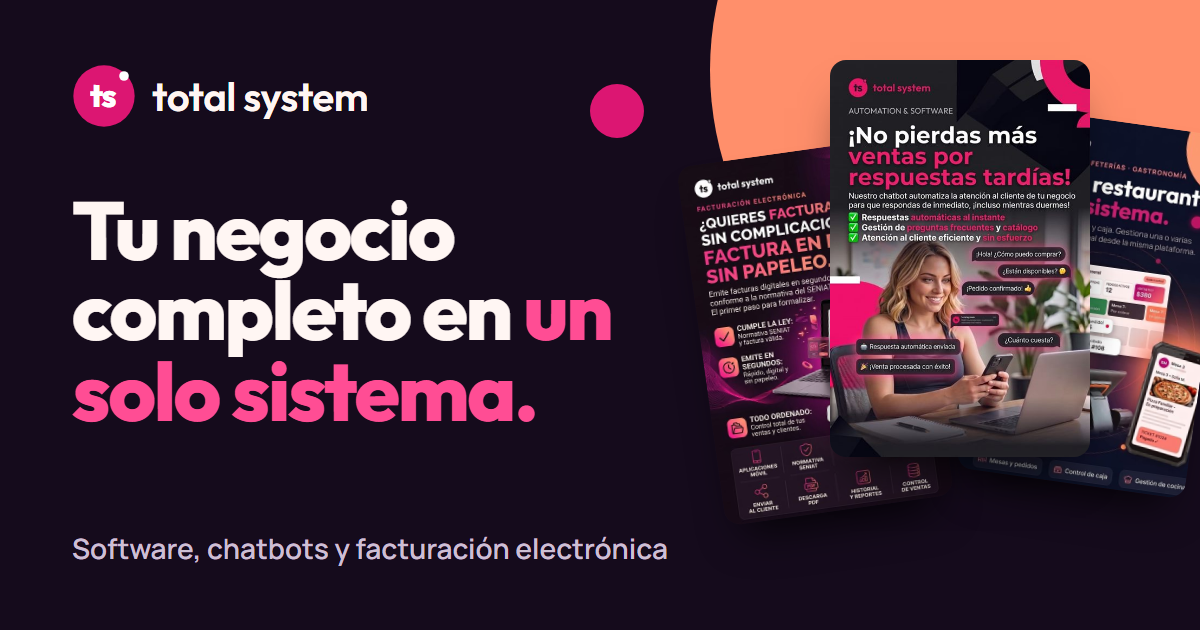
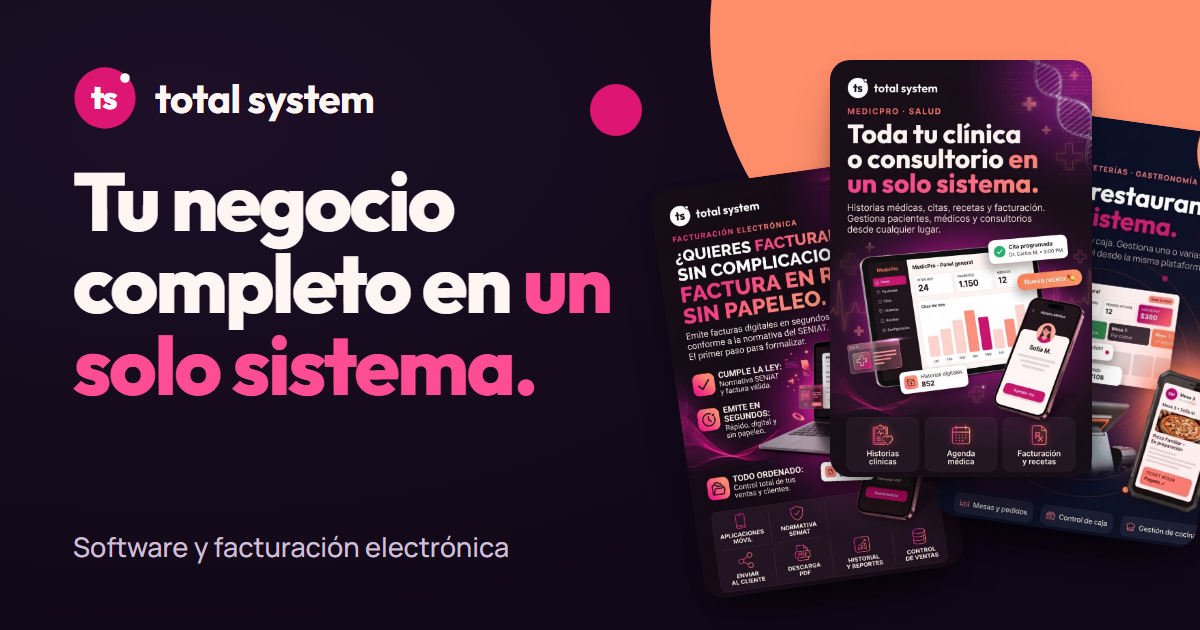
feat(website): retirar el servicio de chatbot de WhatsApp (descontinuado)
- Elimina los flyers del chatbot y la sección del inicio
- Quita el enlace del pie de página, la entrada del catálogo y la pregunta frecuente
- Reemplaza el flyer central del collage por el de MedicPro
- Rehace la imagen para compartir en redes sin el chatbot
- Limpia menciones en meta, JSON-LD, README y PRODUCT.md

diff --git a/index.html b/index.html
@@ -3,8 +3,8 @@
 <head>
   <meta charset="utf-8" />
   <meta name="viewport" content="width=device-width, initial-scale=1" />
-  <title>Total System | Software, chatbots y facturación electrónica</title>
-  <meta name="description" content="Más de 30 sistemas para negocios: tienda POS, gimnasio, clínica, hospedaje, facturación electrónica SENIAT, chatbots de WhatsApp y software a medida." />
+  <title>Total System | Software y facturación electrónica</title>
+  <meta name="description" content="Más de 30 sistemas para negocios: tienda POS, gimnasio, clínica, hospedaje, facturación electrónica SENIAT y software a medida." />
   <link rel="canonical" href="https://www.jotaelebundle.com/" />
   <meta name="robots" content="index, follow, max-image-preview:large" />
   <meta name="theme-color" content="#150b1c" />
@@ -13,15 +13,15 @@
   <meta property="og:site_name" content="Total System" />
   <meta property="og:locale" content="es_VE" />
   <meta property="og:url" content="https://www.jotaelebundle.com/" />
-  <meta property="og:title" content="Total System | Software, chatbots y facturación electrónica" />
-  <meta property="og:description" content="Más de 30 sistemas para negocios: tienda POS, gimnasio, clínica, hospedaje, facturación electrónica SENIAT, chatbots de WhatsApp y software a medida." />
+  <meta property="og:title" content="Total System | Software y facturación electrónica" />
+  <meta property="og:description" content="Más de 30 sistemas para negocios: tienda POS, gimnasio, clínica, hospedaje, facturación electrónica SENIAT y software a medida." />
   <meta property="og:image" content="https://www.jotaelebundle.com/assets/og-total-system.png" />
   <meta property="og:image:width" content="1200" />
   <meta property="og:image:height" content="630" />
-  <meta property="og:image:alt" content="Total System: software, chatbots y facturación electrónica para tu negocio" />
+  <meta property="og:image:alt" content="Total System: software y facturación electrónica para tu negocio" />
   <meta name="twitter:card" content="summary_large_image" />
-  <meta name="twitter:title" content="Total System | Software, chatbots y facturación electrónica" />
-  <meta name="twitter:description" content="Sistemas por industria, facturación electrónica SENIAT, chatbots de WhatsApp y software a medida." />
+  <meta name="twitter:title" content="Total System | Software y facturación electrónica" />
+  <meta name="twitter:description" content="Sistemas por industria, facturación electrónica SENIAT y software a medida." />
   <meta name="twitter:image" content="https://www.jotaelebundle.com/assets/og-total-system.png" />
 
   <link rel="icon" type="image/png" sizes="48x48" href="assets/favicon-48.png" />
@@ -29,8 +29,8 @@
 
   <link rel="preload" href="fonts/outfit-latin.woff2" as="font" type="font/woff2" crossorigin />
   <link rel="preload" href="fonts/manrope-latin.woff2" as="font" type="font/woff2" crossorigin />
-  <link rel="preload" as="image" href="assets/servicios/chatbot-whatsapp-automatizado-480.jpg"
-        imagesrcset="assets/servicios/chatbot-whatsapp-automatizado-480.jpg 480w, assets/servicios/chatbot-whatsapp-automatizado.jpg 768w"
+  <link rel="preload" as="image" href="assets/servicios/sistema-clinicas-medicpro-480.jpg"
+        imagesrcset="assets/servicios/sistema-clinicas-medicpro-480.jpg 480w, assets/servicios/sistema-clinicas-medicpro.jpg 768w"
         imagesizes="(max-width: 960px) 240px, 280px" fetchpriority="high" />
   <link rel="stylesheet" href="css/total.css" />
 
@@ -44,7 +44,7 @@
         "name": "Total System",
         "url": "https://www.jotaelebundle.com/",
         "logo": "https://www.jotaelebundle.com/assets/logo-total-system-512.png",
-        "description": "Desarrollo de software y automatización para negocios: chatbots de WhatsApp, facturación electrónica, más de 30 sistemas de gestión por industria, y software y apps a medida.",
+        "description": "Desarrollo de software y automatización para negocios: facturación electrónica, más de 30 sistemas de gestión por industria, y software y apps a medida.",
         "contactPoint": {
           "@type": "ContactPoint",
           "contactType": "sales",
@@ -55,7 +55,6 @@
           "@type": "OfferCatalog",
           "name": "Servicios de Total System",
           "itemListElement": [
-            { "@type": "Offer", "itemOffered": { "@type": "Service", "name": "Chatbot de WhatsApp para atención al cliente", "serviceType": "Automatización de atención al cliente", "url": "https://www.jotaelebundle.com/#chatbot-whatsapp" } },
             { "@type": "Offer", "itemOffered": { "@type": "Service", "name": "Facturación electrónica conforme a la normativa del SENIAT", "serviceType": "Facturación electrónica", "url": "https://www.jotaelebundle.com/#facturacion-electronica" } },
             { "@type": "Offer", "itemOffered": { "@type": "Service", "name": "Sistema de control de asistencia y fichaje", "serviceType": "Control de asistencia", "url": "https://www.jotaelebundle.com/#control-asistencia" } },
             { "@type": "Offer", "itemOffered": { "@type": "Service", "name": "MedicPro: sistema para clínicas y consultorios", "serviceType": "Software de gestión médica", "url": "https://www.jotaelebundle.com/#sistema-clinicas" } },
@@ -79,11 +78,10 @@
       {
         "@type": "FAQPage",
         "mainEntity": [
-          { "@type": "Question", "name": "¿Qué tipo de software desarrolla Total System?", "acceptedAnswer": { "@type": "Answer", "text": "Chatbots para WhatsApp, facturación electrónica, más de 30 sistemas de gestión listos (tiendas, gimnasios, clínicas, hospedaje, educación, transporte y más), y software o apps a medida para lo que tu negocio necesite." } },
+          { "@type": "Question", "name": "¿Qué tipo de software desarrolla Total System?", "acceptedAnswer": { "@type": "Answer", "text": "Facturación electrónica, más de 30 sistemas de gestión listos (tiendas, gimnasios, clínicas, hospedaje, educación, transporte y más), y software o apps a medida para lo que tu negocio necesite." } },
           { "@type": "Question", "name": "¿La facturación electrónica cumple con la normativa del SENIAT?", "acceptedAnswer": { "@type": "Answer", "text": "Nuestro sistema emite facturas digitales conforme a la normativa del SENIAT, para que formalices tu negocio sin papeleo. Escríbenos y te mostramos cómo funciona." } },
           { "@type": "Question", "name": "¿Puedo gestionar mi negocio desde el celular?", "acceptedAnswer": { "@type": "Answer", "text": "Sí. Nuestros sistemas están pensados para gestionarse desde cualquier lugar, con aplicación móvil y panel para la computadora." } },
           { "@type": "Question", "name": "¿Sirve para varias sedes o sucursales?", "acceptedAnswer": { "@type": "Answer", "text": "Sí. Los sistemas para academias y restaurantes permiten gestionar una o varias sedes o sucursales desde la misma plataforma, en tiempo real." } },
-          { "@type": "Question", "name": "¿El chatbot responde por mí cuando no estoy?", "acceptedAnswer": { "@type": "Answer", "text": "Sí. Responde al instante, incluso fuera de horario, las preguntas frecuentes y las consultas sobre el catálogo de tu negocio." } },
           { "@type": "Question", "name": "¿Pueden hacer un sistema distinto a los que veo aquí?", "acceptedAnswer": { "@type": "Answer", "text": "Sí. Además del catálogo, hacemos cualquier sistema o app a medida: tú pones las reglas y nosotros ponemos el código." } },
           { "@type": "Question", "name": "¿Cómo pido una demostración?", "acceptedAnswer": { "@type": "Answer", "text": "Escríbenos a jorgecastilloowner@jotaelebundle.com y cuéntanos qué tipo de negocio tienes." } },
           { "@type": "Question", "name": "¿Cuánto cuesta?", "acceptedAnswer": { "@type": "Answer", "text": "Depende del sistema y de lo que necesite tu negocio. Escríbenos y te contamos las opciones." } }
@@ -145,7 +143,7 @@
         <div>
           <h1 id="hero-title">Tu negocio completo en <span class="hl">un solo sistema.</span></h1>
           <p class="hero-lead">
-            Creamos más de 30 sistemas de gestión, facturación electrónica y chatbots de WhatsApp para tiendas, gimnasios, clínicas, hospedaje, restaurantes y financieras. Y cualquier sistema o app que imagines: tú pones las reglas y nosotros ponemos el código.
+            Creamos más de 30 sistemas de gestión y facturación electrónica para tiendas, gimnasios, clínicas, hospedaje, restaurantes y financieras. Y cualquier sistema o app que imagines: tú pones las reglas y nosotros ponemos el código.
           </p>
           <div class="hero-actions">
             <a class="btn btn-primary btn-lg" href="mailto:jorgecastilloowner@jotaelebundle.com?subject=Quiero%20una%20demo%20de%20Total%20System&amp;body=Hola%2C%20quiero%20una%20demo.%20Mi%20negocio%20es%3A%20">
@@ -173,9 +171,9 @@
                  sizes="(max-width: 960px) 200px, 240px" width="768" height="1208" alt="" decoding="async" />
           </figure>
           <figure class="fan-poster b">
-            <img src="assets/servicios/chatbot-whatsapp-automatizado-480.jpg"
-                 srcset="assets/servicios/chatbot-whatsapp-automatizado-480.jpg 480w, assets/servicios/chatbot-whatsapp-automatizado.jpg 768w"
-                 sizes="(max-width: 960px) 240px, 280px" width="768" height="1172" alt="" fetchpriority="high" decoding="async" />
+            <img src="assets/servicios/sistema-clinicas-medicpro-480.jpg"
+                 srcset="assets/servicios/sistema-clinicas-medicpro-480.jpg 480w, assets/servicios/sistema-clinicas-medicpro.jpg 768w"
+                 sizes="(max-width: 960px) 240px, 280px" width="768" height="1222" alt="" fetchpriority="high" decoding="async" />
           </figure>
           <figure class="fan-poster c">
             <img src="assets/servicios/sistema-restaurantes-480.jpg"
@@ -188,7 +186,7 @@
           </div>
           <div class="chip two">
             <svg width="26" height="26" aria-hidden="true"><use href="#i-check" /></svg>
-            <div><strong>¡Pedido confirmado!</strong><span>Respuesta automática enviada</span></div>
+            <div><strong>¡Pedido confirmado!</strong><span>Enviado a cocina</span></div>
           </div>
           <div class="chip three">
             <svg width="26" height="26" aria-hidden="true"><use href="#i-check" /></svg>
@@ -204,39 +202,10 @@
         <div class="section-head">
           <h2 id="servicios-title">Un sistema para cada <span class="hl">tipo de negocio.</span></h2>
           <p>
-            Elige lo que necesitas: atención automática por WhatsApp, facturación en regla, control de asistencia de tu equipo
+            Elige lo que necesitas: facturación en regla, control de asistencia de tu equipo
             o un sistema pensado para tu industria. Todo se gestiona desde el celular o la computadora.
           </p>
         </div>
-
-        <article class="svc" id="chatbot-whatsapp">
-          <div class="svc-media">
-            <img src="assets/servicios/chatbot-whatsapp-automatizado-480.jpg"
-                 srcset="assets/servicios/chatbot-whatsapp-automatizado-480.jpg 480w, assets/servicios/chatbot-whatsapp-automatizado.jpg 768w"
-                 sizes="(max-width: 960px) 70vw, 340px" width="768" height="1172" loading="lazy" decoding="async"
-                 alt="Flyer de Total System: chatbot de WhatsApp que automatiza la atención al cliente con respuestas automáticas, preguntas frecuentes y catálogo" />
-          </div>
-          <div class="svc-body">
-            <h3>Chatbot de WhatsApp para no perder ventas</h3>
-            <p class="svc-hook">Responde de inmediato, incluso mientras duermes.</p>
-            <p>
-              Nuestro chatbot automatiza la atención al cliente de tu negocio: contesta las preguntas más comunes,
-              muestra tu catálogo y confirma pedidos, aun fuera de horario.
-            </p>
-            <ul class="ticks">
-              <li><svg width="28" height="28" aria-hidden="true"><use href="#i-check" /></svg><span>Respuestas automáticas al instante</span></li>
-              <li><svg width="28" height="28" aria-hidden="true"><use href="#i-check" /></svg><span>Gestión de preguntas frecuentes y catálogo</span></li>
-              <li><svg width="28" height="28" aria-hidden="true"><use href="#i-check" /></svg><span>Atención al cliente eficiente y sin esfuerzo</span></li>
-            </ul>
-            <div class="svc-actions">
-              <a class="btn btn-primary" href="mailto:jorgecastilloowner@jotaelebundle.com?subject=Demo%20del%20chatbot%20para%20WhatsApp&amp;body=Hola%2C%20quiero%20informaci%C3%B3n%20sobre%20el%20chatbot%20para%20WhatsApp.%20Mi%20negocio%20es%3A%20">
-                <svg class="mail-icon" aria-hidden="true" focusable="false"><use href="#i-mail" /></svg>
-                Pedir demo del chatbot
-              </a>
-              <a class="text-link" href="chattflow.html">¿Prefieres montarlo tú? Conoce ChattFlow</a>
-            </div>
-          </div>
-        </article>
 
         <article class="svc" id="facturacion-electronica">
           <div class="svc-media">
@@ -500,7 +469,7 @@
         <div class="faq">
           <details>
             <summary>¿Qué tipo de software desarrolla Total System?</summary>
-            <p>Chatbots para WhatsApp, facturación electrónica, más de 30 sistemas de gestión listos (tiendas, gimnasios, clínicas, hospedaje, educación, transporte y más), y software o apps a medida para lo que tu negocio necesite.</p>
+            <p>Facturación electrónica, más de 30 sistemas de gestión listos (tiendas, gimnasios, clínicas, hospedaje, educación, transporte y más), y software o apps a medida para lo que tu negocio necesite.</p>
           </details>
           <details>
             <summary>¿La facturación electrónica cumple con la normativa del SENIAT?</summary>
@@ -513,10 +482,6 @@
           <details>
             <summary>¿Sirve para varias sedes o sucursales?</summary>
             <p>Sí. Los sistemas para academias y restaurantes permiten gestionar una o varias sedes o sucursales desde la misma plataforma, en tiempo real.</p>
-          </details>
-          <details>
-            <summary>¿El chatbot responde por mí cuando no estoy?</summary>
-            <p>Sí. Responde al instante, incluso fuera de horario, las preguntas frecuentes y las consultas sobre el catálogo de tu negocio.</p>
           </details>
           <details>
             <summary>¿Pueden hacer un sistema distinto a los que veo aquí?</summary>
@@ -558,12 +523,11 @@
             <svg viewBox="0 0 48 48" aria-hidden="true" focusable="false"><use href="#logo-ts" /></svg>
             <span>total system</span>
           </a>
-          <p>Software y automatización para negocios: chatbots, facturación electrónica y sistemas a tu medida.</p>
+          <p>Software y automatización para negocios: facturación electrónica y sistemas a tu medida.</p>
         </div>
         <nav aria-label="Servicios">
           <h2>Servicios</h2>
           <ul>
-            <li><a href="#chatbot-whatsapp">Chatbot de WhatsApp</a></li>
             <li><a href="#facturacion-electronica">Facturación electrónica</a></li>
             <li><a href="#control-asistencia">Control de asistencia</a></li>
             <li><a href="#sistema-clinicas">Clínicas (MedicPro)</a></li>

diff --git a/sistemas.html b/sistemas.html
@@ -49,7 +49,7 @@
       "mainEntity": {
         "@type": "ItemList",
         "name": "Catálogo de sistemas de Total System",
-        "numberOfItems": 36,
+        "numberOfItems": 35,
         "itemListElement": [
           {
             "@type": "ListItem",
@@ -459,7 +459,7 @@
             "position": 32,
             "item": {
               "@type": "Service",
-              "name": "Chatbot de WhatsApp",
+              "name": "Desarrollo de software a medida",
               "serviceType": "Tecnología y desarrollo",
               "url": "https://www.jotaelebundle.com/sistemas.html#tecnologia-desarrollo",
               "provider": {
@@ -472,7 +472,7 @@
             "position": 33,
             "item": {
               "@type": "Service",
-              "name": "Desarrollo de software a medida",
+              "name": "Desarrollo de apps a medida",
               "serviceType": "Tecnología y desarrollo",
               "url": "https://www.jotaelebundle.com/sistemas.html#tecnologia-desarrollo",
               "provider": {
@@ -485,19 +485,6 @@
             "position": 34,
             "item": {
               "@type": "Service",
-              "name": "Desarrollo de apps a medida",
-              "serviceType": "Tecnología y desarrollo",
-              "url": "https://www.jotaelebundle.com/sistemas.html#tecnologia-desarrollo",
-              "provider": {
-                "@id": "https://www.jotaelebundle.com/#org"
-              }
-            }
-          },
-          {
-            "@type": "ListItem",
-            "position": 35,
-            "item": {
-              "@type": "Service",
               "name": "Sistema de avícolas",
               "serviceType": "Manufactura y producción",
               "url": "https://www.jotaelebundle.com/sistemas.html#manufactura-produccion",
@@ -508,7 +495,7 @@
           },
           {
             "@type": "ListItem",
-            "position": 36,
+            "position": 35,
             "item": {
               "@type": "Service",
               "name": "Sistemas de producción a medida",
@@ -715,11 +702,10 @@
         <section class="cat" id="tecnologia-desarrollo" aria-labelledby="h-tecnologia-desarrollo">
           <div class="cat-name">
             <h2 id="h-tecnologia-desarrollo">Tecnología y desarrollo</h2>
-            <p>Gestión de TI, chatbots y desarrollo a medida.</p>
+            <p>Gestión de TI y desarrollo a medida.</p>
           </div>
           <ul class="sys-list">
             <li><a href="mailto:jorgecastilloowner@jotaelebundle.com?subject=Demo%3A%20Sistema%20de%20gesti%C3%B3n%20TI&amp;body=Hola%2C%20quiero%20informaci%C3%B3n%20sobre%3A%20Sistema%20de%20gesti%C3%B3n%20TI.%20Mi%20negocio%20es%3A%20"><span>Sistema de gestión TI</span><svg width="22" height="22" aria-hidden="true" focusable="false"><use href="#i-arrow" /></svg></a></li>
-            <li><a href="mailto:jorgecastilloowner@jotaelebundle.com?subject=Demo%3A%20Chatbot%20de%20WhatsApp&amp;body=Hola%2C%20quiero%20informaci%C3%B3n%20sobre%3A%20Chatbot%20de%20WhatsApp.%20Mi%20negocio%20es%3A%20"><span>Chatbot de WhatsApp</span><svg width="22" height="22" aria-hidden="true" focusable="false"><use href="#i-arrow" /></svg></a></li>
             <li><a href="mailto:jorgecastilloowner@jotaelebundle.com?subject=Demo%3A%20Desarrollo%20de%20software%20a%20medida&amp;body=Hola%2C%20quiero%20informaci%C3%B3n%20sobre%3A%20Desarrollo%20de%20software%20a%20medida.%20Mi%20negocio%20es%3A%20"><span>Desarrollo de software a medida</span><svg width="22" height="22" aria-hidden="true" focusable="false"><use href="#i-arrow" /></svg></a></li>
             <li><a href="mailto:jorgecastilloowner@jotaelebundle.com?subject=Demo%3A%20Desarrollo%20de%20apps%20a%20medida&amp;body=Hola%2C%20quiero%20informaci%C3%B3n%20sobre%3A%20Desarrollo%20de%20apps%20a%20medida.%20Mi%20negocio%20es%3A%20"><span>Desarrollo de apps a medida</span><svg width="22" height="22" aria-hidden="true" focusable="false"><use href="#i-arrow" /></svg></a></li>
           </ul>
@@ -778,12 +764,11 @@
             <svg viewBox="0 0 48 48" aria-hidden="true" focusable="false"><use href="#logo-ts" /></svg>
             <span>total system</span>
           </a>
-          <p>Software y automatización para negocios: chatbots, facturación electrónica y sistemas a tu medida.</p>
+          <p>Software y automatización para negocios: facturación electrónica y sistemas a tu medida.</p>
         </div>
         <nav aria-label="Servicios">
           <h2>Servicios</h2>
           <ul>
-            <li><a href="./#chatbot-whatsapp">Chatbot de WhatsApp</a></li>
             <li><a href="./#facturacion-electronica">Facturación electrónica</a></li>
             <li><a href="./#industrias">Sistemas por industria</a></li>
             <li><a href="sistemas.html">Catálogo de sistemas</a></li>

diff --git a/chattflow.html b/chattflow.html
@@ -195,10 +195,6 @@
             <a class="btn btn-primary" href="https://github.com/Rodildo/whatsapp-manager-bot-apk/releases/latest/download/chattflow.apk" rel="noopener">Empezar</a>
           </article>
         </div>
-        <p class="related">
-          ¿Prefieres que armemos el chatbot por ti? Conoce el
-          <a class="text-link" href="./#chatbot-whatsapp">servicio de chatbot de WhatsApp a tu medida</a>.
-        </p>
       </div>
     </section>
 
@@ -226,12 +222,11 @@
             <svg viewBox="0 0 48 48" aria-hidden="true" focusable="false"><use href="#logo-ts" /></svg>
             <span>total system</span>
           </a>
-          <p>Software y automatización para negocios: chatbots, facturación electrónica y sistemas a tu medida.</p>
+          <p>Software y automatización para negocios: facturación electrónica y sistemas a tu medida.</p>
         </div>
         <nav aria-label="Servicios">
           <h2>Servicios</h2>
           <ul>
-            <li><a href="./#chatbot-whatsapp">Chatbot de WhatsApp</a></li>
             <li><a href="./#facturacion-electronica">Facturación electrónica</a></li>
             <li><a href="./#industrias">Sistemas por industria</a></li>
             <li><a href="sistemas.html">Catálogo de sistemas</a></li>

diff --git a/chatflow-privacidad.html b/chatflow-privacidad.html
@@ -154,12 +154,11 @@
             <svg viewBox="0 0 48 48" aria-hidden="true" focusable="false"><use href="#logo-ts" /></svg>
             <span>total system</span>
           </a>
-          <p>Software y automatización para negocios: chatbots, facturación electrónica y sistemas a tu medida.</p>
+          <p>Software y automatización para negocios: facturación electrónica y sistemas a tu medida.</p>
         </div>
         <nav aria-label="Servicios">
           <h2>Servicios</h2>
           <ul>
-            <li><a href="./#chatbot-whatsapp">Chatbot de WhatsApp</a></li>
             <li><a href="./#facturacion-electronica">Facturación electrónica</a></li>
             <li><a href="./#industrias">Sistemas por industria</a></li>
             <li><a href="sistemas.html">Catálogo de sistemas</a></li>

diff --git a/jarvis-planeador.html b/jarvis-planeador.html
@@ -212,12 +212,11 @@
             <svg viewBox="0 0 48 48" aria-hidden="true" focusable="false"><use href="#logo-ts" /></svg>
             <span>total system</span>
           </a>
-          <p>Software y automatización para negocios: chatbots, facturación electrónica y sistemas a tu medida.</p>
+          <p>Software y automatización para negocios: facturación electrónica y sistemas a tu medida.</p>
         </div>
         <nav aria-label="Servicios">
           <h2>Servicios</h2>
           <ul>
-            <li><a href="./#chatbot-whatsapp">Chatbot de WhatsApp</a></li>
             <li><a href="./#facturacion-electronica">Facturación electrónica</a></li>
             <li><a href="./#industrias">Sistemas por industria</a></li>
             <li><a href="sistemas.html">Catálogo de sistemas</a></li>

diff --git a/privacidad.html b/privacidad.html
@@ -145,12 +145,11 @@
             <svg viewBox="0 0 48 48" aria-hidden="true" focusable="false"><use href="#logo-ts" /></svg>
             <span>total system</span>
           </a>
-          <p>Software y automatización para negocios: chatbots, facturación electrónica y sistemas a tu medida.</p>
+          <p>Software y automatización para negocios: facturación electrónica y sistemas a tu medida.</p>
         </div>
         <nav aria-label="Servicios">
           <h2>Servicios</h2>
           <ul>
-            <li><a href="./#chatbot-whatsapp">Chatbot de WhatsApp</a></li>
             <li><a href="./#facturacion-electronica">Facturación electrónica</a></li>
             <li><a href="./#industrias">Sistemas por industria</a></li>
             <li><a href="sistemas.html">Catálogo de sistemas</a></li>

diff --git a/404.html b/404.html
@@ -73,12 +73,11 @@
             <svg viewBox="0 0 48 48" aria-hidden="true" focusable="false"><use href="#logo-ts" /></svg>
             <span>total system</span>
           </a>
-          <p>Software y automatización para negocios: chatbots, facturación electrónica y sistemas a tu medida.</p>
+          <p>Software y automatización para negocios: facturación electrónica y sistemas a tu medida.</p>
         </div>
         <nav aria-label="Servicios">
           <h2>Servicios</h2>
           <ul>
-            <li><a href="/#chatbot-whatsapp">Chatbot de WhatsApp</a></li>
             <li><a href="/#facturacion-electronica">Facturación electrónica</a></li>
             <li><a href="/#industrias">Sistemas por industria</a></li>
             <li><a href="/sistemas.html">Catálogo de sistemas</a></li>

diff --git a/PRODUCT.md b/PRODUCT.md
@@ -16,7 +16,7 @@ Owners and managers of small and medium businesses (inferred from the flyers: +5
 
 ## Product Purpose
 
-Total System sells software and automation to businesses: a WhatsApp chatbot, electronic invoicing, ready-made management systems per industry, and custom software. The site must make each offer findable by industry and turn the visit into an email asking for a demo. Success is a demo-request email, and organic search visibility for each service.
+Total System sells software and automation to businesses: electronic invoicing, ready-made management systems per industry, and custom software. The site must make each offer findable by industry and turn the visit into an email asking for a demo. Success is a demo-request email, and organic search visibility for each service.
 
 ## Positioning
 
@@ -28,8 +28,7 @@ For now ALL contact goes to the email jorgecastilloowner@jotaelebundle.com (user
 
 ## Capabilities and Constraints
 
-Services taken only from the ten flyers:
-- Chatbot for WhatsApp customer service: instant automatic replies, FAQ and catalog handling.
+Services taken only from the flyers (the WhatsApp chatbot service was discontinued and removed on 2026-10-17; do not list it again):
 - Electronic invoicing "conforme a la normativa del SENIAT": mobile app, send to customer, PDF download, history and reports, sales control.
 - MedicPro (health): clinical histories, appointments, prescriptions and billing.
 - AcademiaPro (education): enrollment, attendance and grades, one or several campuses, classes and courses, payments.
@@ -51,7 +50,7 @@ Name "Total System", logo is a magenta circle with "ts" plus the wordmark "total
 
 ## Evidence on Hand
 
-Ten flyers (see `assets/servicios/`) with real product mockups, the Jarvis screenshots in `assets/screenshots/`. No testimonials, client logos, case studies, metrics or prices exist; none may be fabricated. UI values inside the flyers (e.g. "$420", "1.240 alumnos") are illustrative mockup data.
+The flyers (see `assets/servicios/`) with real product mockups, the Jarvis screenshots in `assets/screenshots/`. No testimonials, client logos, case studies, metrics or prices exist; none may be fabricated. UI values inside the flyers (e.g. "$420", "1.240 alumnos") are illustrative mockup data.
 
 ## Product Principles
 

diff --git a/README.md b/README.md
@@ -1,10 +1,10 @@
 # Sitio web de Total System
 
-Sitio estático (HTML + CSS + un poco de JS, sin build ni dependencias) de **Total System**: servicios de software (chatbot de WhatsApp, facturación electrónica, sistemas por industria, software a medida) y las dos apps Android, ChattFlow y Jarvis Planeador.
+Sitio estático (HTML + CSS + un poco de JS, sin build ni dependencias) de **Total System**: servicios de software (facturación electrónica, sistemas por industria, software a medida) y las dos apps Android, ChattFlow y Jarvis Planeador.
 
 ```
 website/
-  index.html                 — home: hero, los 9 servicios de los flyers, bloque que lleva al catálogo, apps, proceso, FAQ y contacto
+  index.html                 — home: hero, los 8 servicios de los flyers, bloque que lleva al catálogo, apps, proceso, FAQ y contacto
   sistemas.html              — catálogo: más de 30 sistemas en 9 categorías; cada uno abre un correo prellenado
   chattflow.html             — página propia de ChattFlow (APK, planes, cómo funciona)
   jarvis-planeador.html      — página propia de Jarvis Planeador (APK, capturas, cómo funciona)
